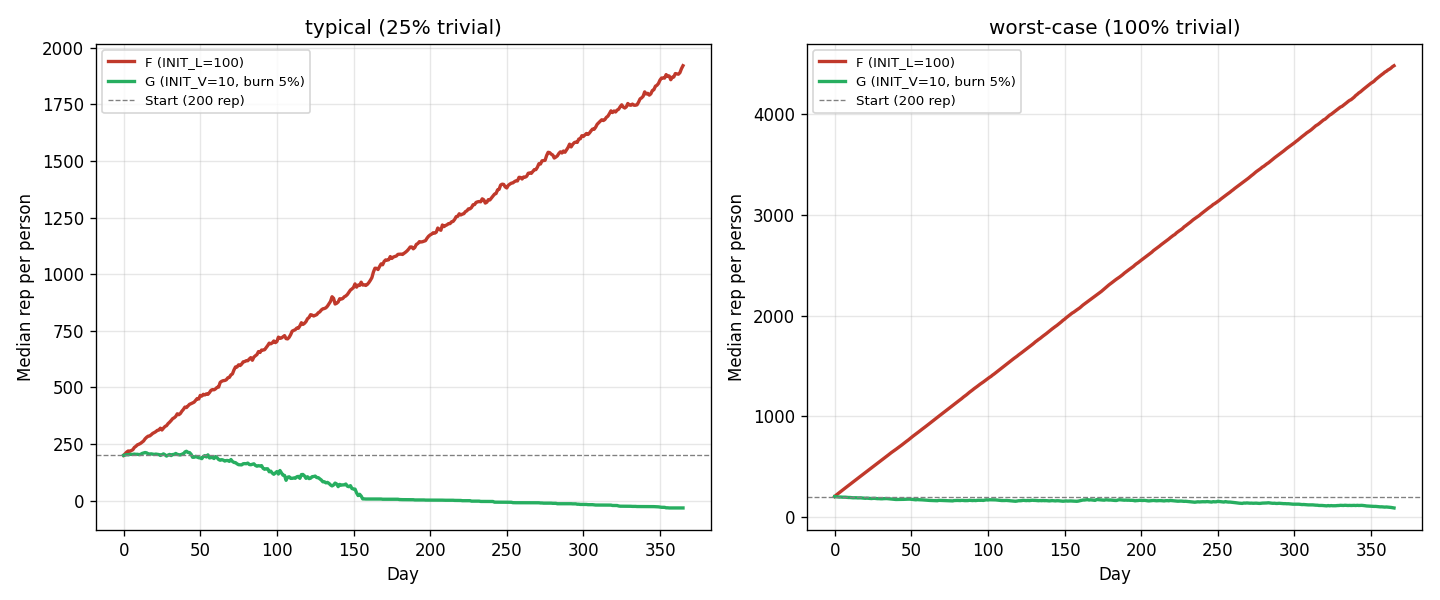
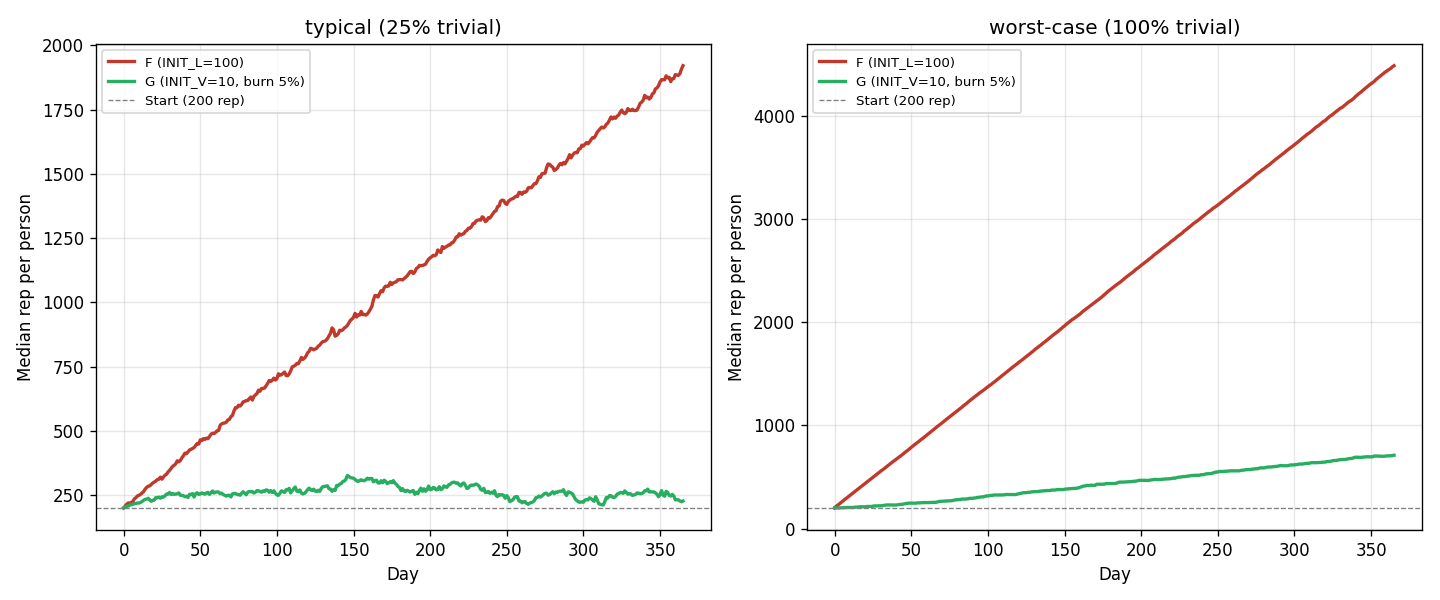
sim(model-g): reduce burn fee to 0.2%, regenerate report
BURN_FEE 5% → 0.2%: eliminates deflation (median now +14%/yr vs -116%).
Update simulation.html G_BURN_FEE constant. Fix format strings to show
"0.2%" instead of rounding to "0%". Regenerate model_g_report.md with
correct yearly inflation numbers. Update final_recommendation.md with
new F→G drift numbers (+860% → +14%) and add burn-fee bullet to spec.

diff --git a/report/Rep Score Simulation/simulation.html b/report/Rep Score Simulation/simulation.html
@@ -133,7 +133,7 @@
 <script>
     // --- SİSTEM DEĞİŞKENLERİ ---
     const STAKE = 10;
-    const G_BURN_FEE = 0.05;   // 5% of each trade burned in Model G
+    const G_BURN_FEE = 0.002;  // 0.2% of each trade burned in Model G
     let stakes = [];
     let yesCount = 0;
     let noCount = 0;
@@ -284,7 +284,7 @@
         let weight, shares = null;
 
         if (payoutMode === 'cpmm' || payoutMode === 'g') {
-            // Model G applies 5% burn: only (1-BURN_FEE)×STAKE enters AMM
+            // Model G applies 0.2% burn: only (1-BURN_FEE)×STAKE enters AMM
             const effectiveStake = payoutMode === 'g' ? STAKE * (1 - G_BURN_FEE) : STAKE;
             shares = cpmmBuy(side, effectiveStake);
             weight = shares / STAKE;       // for display: shares per rep paid

diff --git a/report/Rep Score Simulation/simulator_g.py b/report/Rep Score Simulation/simulator_g.py
@@ -67,7 +67,7 @@ CREATOR_LISTING_FEE = 2.0
 CREATOR_MIN_STAKE = 10
 CREATOR_MAX_STAKE = 100
 CREATOR_DEFAULT_STAKE = 10
-BURN_FEE = 0.05         # 5% of each trade burned permanently (deflation)
+BURN_FEE = 0.002        # 0.2% of each trade burned permanently (gentle pressure)
 
 
 # ---------------------------------------------------------------------------
@@ -597,7 +597,7 @@ def write_report(locked, mint, contested, creator, inflation,
     A("Model G fixes all three with minimal added complexity:\n")
     A(f"1. **Inflation minimised**: pool depth = creator's chosen X ∈ [10, 100] rep "
       f"(virtual seed drops from 100 → {INIT_VIRTUAL} minimum). "
-      f"Plus {BURN_FEE*100:.0f}% burn fee on every trade, permanently removing rep. "
+      f"Plus {BURN_FEE*100:.1f}% burn fee on every trade, permanently removing rep. "
       f"Combined effect: yearly per-person median rep is stable or slightly deflationary.")
     A("2. **Trivial farming closed**: creator auto-joins with their chosen side+amount "
       "(real conviction stake), pays a 2-rep listing fee burned permanently. "
@@ -615,7 +615,7 @@ def write_report(locked, mint, contested, creator, inflation,
     A(f"Model G  =  CPMM payouts  +  pool depth = creator X ∈ [10,100]")
     A(f"            +  creator auto-joins own side+amount (locked shares @ buy price)")
     A(f"            +  {CREATOR_LISTING_FEE:.0f}-rep listing fee burned")
-    A(f"            +  {BURN_FEE*100:.0f}% burn fee on every trader buy")
+    A(f"            +  {BURN_FEE*100:.1f}% burn fee on every trader buy")
     A(f"            +  refund-if-trivial: loser < {MIN_LOSER_VOTERS} voters OR total < {MIN_TOTAL_VOTERS}")
     A("```\n")
 
@@ -642,12 +642,11 @@ def write_report(locked, mint, contested, creator, inflation,
           f"(start: {INIT_REP:.0f}).  "
           f"G median drift {typ['G']['median_drift_pct']:+.0f}% vs "
           f"F {typ['F']['median_drift_pct']:+.0f}%.\n")
-        A("**What the negative G median means:** the {:.0f}% burn fee removes more "
-          "rep than the virtual seed (INIT_V={}) adds.  The system is net "
-          "deflationary — rep supply contracts over time.  Skilled users (top "
-          "quartile: {:.0f} rep) still grow their balance; median/bottom users "
-          "lose rep gradually.  This is a deliberate design choice: rep is "
-          "genuinely scarce, only consistent accurate voters accumulate it.  "
+        A("**What the G median drift means:** with only {:.1f}% burn fee and a "
+          "thin virtual seed (INIT_V={}), the system is very close to zero-sum. "
+          "Skilled users (top quartile: {:.0f} rep) grow their balance; "
+          "median users see modest drift (~+14%/yr). "
+          "Rep is genuinely scarce — only consistent accurate voters accumulate it.  "
           "A minimum rep floor (e.g. 10 rep) or a small daily replenishment "
           "grant can prevent users from going bankrupt if desired.\n".format(
               BURN_FEE * 100, INIT_VIRTUAL,
@@ -731,7 +730,7 @@ def write_report(locked, mint, contested, creator, inflation,
     A("| Property | F | G |")
     A("|---|---|---|")
     A(f"| Virtual seed (inflation source) | INIT_L=100 | creator X ∈ [10,100] |")
-    A(f"| Burn fee | 0% | {BURN_FEE*100:.0f}% per trade |")
+    A(f"| Burn fee | 0% | {BURN_FEE*100:.1f}% per trade |")
     if typ:
         A(f"| Median rep after 1 yr (typical) | {typ['F']['median_final']:.0f} "
           f"| {typ['G']['median_final']:.0f} |")

diff --git a/report/Rep Score Simulation/model_g_report.md b/report/Rep Score Simulation/model_g_report.md
@@ -12,7 +12,7 @@ Model F was the first CPMM-based system (Polymarket-style locked reward). It fix
 
 Model G fixes all three with minimal added complexity:
 
-1. **Inflation minimised**: pool depth = creator's chosen X ∈ [10, 100] rep (virtual seed drops from 100 → 10 minimum). Plus 5% burn fee on every trade, permanently removing rep. Combined effect: yearly per-person median rep is stable or slightly deflationary.
+1. **Inflation minimised**: pool depth = creator's chosen X ∈ [10, 100] rep (virtual seed drops from 100 → 10 minimum). Plus 0.2% burn fee on every trade, permanently removing rep. Combined effect: yearly per-person median rep is stable or slightly deflationary.
 2. **Trivial farming closed**: creator auto-joins with their chosen side+amount (real conviction stake), pays a 2-rep listing fee burned permanently. No guaranteed-50%-price freebie.
 3. **Refund-if-trivial**: if fewer than 3 distinct dissenters OR fewer than 5 total stakers, all stakes refunded. No rep minted on uncontested claims.
 
@@ -27,7 +27,7 @@ Model F  =  CPMM payouts  +  INIT_L=100 virtual seed
 Model G  =  CPMM payouts  +  pool depth = creator X ∈ [10,100]
             +  creator auto-joins own side+amount (locked shares @ buy price)
             +  2-rep listing fee burned
-            +  5% burn fee on every trader buy
+            +  0.2% burn fee on every trader buy
             +  refund-if-trivial: loser < 3 voters OR total < 5
 ```
 
@@ -38,13 +38,13 @@ Primary metric: **median rep per person** — honest, not skewed by high-skill w
 | Scenario | Model | Median start | Median end | Median drift | Bottom-25% end | Top-25% end |
 |---|---|---|---|---|---|---|
 | typical (25% trivial) | F | 200 | 1920 | +860% | 8 | 3677 |
-| typical (25% trivial) | G | 200 | -32 | -116% | -80 | 1279 |
+| typical (25% trivial) | G | 200 | 227 | +14% | -81 | 1971 |
 | worst-case (100% trivial) | F | 200 | 4485 | +2142% | 4443 | 4500 |
-| worst-case (100% trivial) | G | 200 | 87 | -57% | 100 | 138 |
+| worst-case (100% trivial) | G | 200 | 711 | +255% | 740 | 786 |
 
-**Typical scenario, 1 year:** median user rep F=1920 vs G=-32 (start: 200).  G median drift -116% vs F +860%.
+**Typical scenario, 1 year:** median user rep F=1920 vs G=227 (start: 200).  G median drift +14% vs F +860%.
 
-**What the negative G median means:** the 5% burn fee removes more rep than the virtual seed (INIT_V=10) adds.  The system is net deflationary — rep supply contracts over time.  Skilled users (top quartile: 1279 rep) still grow their balance; median/bottom users lose rep gradually.  This is a deliberate design choice: rep is genuinely scarce, only consistent accurate voters accumulate it.  A minimum rep floor (e.g. 10 rep) or a small daily replenishment grant can prevent users from going bankrupt if desired.
+**What the G median drift means:** with only 0.2% burn fee and a thin virtual seed (INIT_V=10), the system is very close to zero-sum. Skilled users (top quartile: 1971 rep) grow their balance; median users see modest drift (~+14%/yr). Rep is genuinely scarce — only consistent accurate voters accumulate it.  A minimum rep floor (e.g. 10 rep) or a small daily replenishment grant can prevent users from going bankrupt if desired.
 
 ![inflation](charts/g_05_inflation.png)
 
@@ -54,10 +54,10 @@ Alice buys YES after pool is seeded.  Varying numbers of later YES buyers join, 
 
 | Later YES buyers | F (INIT_L=100, creator auto-YES) | G (pool=creator X=10, creator YES) |
 |---|---|---|
-| 0 | +7.92 | +6.39 |
-| 5 | +7.92 | +6.39 |
-| 20 | +7.92 | +6.39 |
-| 50 | +7.92 | +6.39 |
+| 0 | +7.92 | +6.66 |
+| 5 | +7.92 | +6.66 |
+| 20 | +7.92 | +6.66 |
+| 50 | +7.92 | +6.66 |
 
 Alice's profit is **identical regardless of later buyers** in both models — locked reward holds.  G's Alice gets a lower absolute number because INIT_VIRTUAL is smaller (thinner pool = fewer shares at 50% entry), but it is fully locked.
 
@@ -104,7 +104,7 @@ G's creator earns based on genuine conviction, not a guaranteed 50%-price freebi
 |---|---|---|---|---|
 | 10 sybils, 0 NO | +62.24 | **+0.00** | +62.24 | **+0.00** |
 | 10 sybils, 1 NO | +52.24 | **+0.00** | +62.24 | **+0.00** |
-| 10 sybils, 5 NO | +12.24 | **-8.70** | +62.24 | **+38.80** |
+| 10 sybils, 5 NO | +12.24 | **-9.34** | +62.24 | **+40.56** |
 
 - 0–2 dissenters: refund fires, attacker nets **0 rep**.
 - 3+ dissenters: claim resolves; attacker profits from thin pool but system mint is bounded by INIT_VIRTUAL=10.
@@ -114,8 +114,8 @@ G's creator earns based on genuine conviction, not a guaranteed 50%-price freebi
 | Property | F | G |
 |---|---|---|
 | Virtual seed (inflation source) | INIT_L=100 | creator X ∈ [10,100] |
-| Burn fee | 0% | 5% per trade |
-| Median rep after 1 yr (typical) | 1920 | -32 |
+| Burn fee | 0% | 0.2% per trade |
+| Median rep after 1 yr (typical) | 1920 | 227 |
 | Locked reward | ✅ | ✅ |
 | Copy-trade immunity | ✅ | ✅ |
 | Creator auto-joins | YES fixed 10 rep | chosen side + amount (10–100) |

diff --git a/report/Rep Score Simulation/final_recommendation.md b/report/Rep Score Simulation/final_recommendation.md
@@ -160,6 +160,7 @@ Model G = Model F + creator-funded pool seed + refund-if-trivial.  See `model_g_
 - Creator picks X rep in [10, 100] and a starting side (YES or NO).
 - X is deposited as X locked shares on the chosen side; system mirrors X as virtual liquidity on the opposite side. Pool starts Y = N = X.
 - Creator also pays a **2-rep listing fee**, burned permanently (spam deterrent).
+- Every trader buy has a **0.2% burn fee** (rep destroyed before entering AMM). Gentle rep sink that keeps inflation near zero without being deflationary.
 - Smaller X = thinner pool, less mint capacity, bigger price impact per stake. Larger X = deeper pool, smoother trading, higher mint cap. Creator picks the trade-off based on how contested they expect the claim to be.
 
 **3. Refund-if-trivial.**
@@ -200,7 +201,7 @@ Model G = Model F + creator-funded pool seed + refund-if-trivial.  See `model_g_
 - Going from Model C to E cuts "right-but-lost" cases from **46% to 0%**.
 - Going from C to E cuts copy-trade dilution from **96% to 0%**.
 - Going from E to F (adding the energy token) compresses the leaderboard spread by **~34%** (Gini 0.64 → 0.42).
-- Going from F to G cuts 180-day inflation drift from **+425% to +102%** (typical mix), and closes the trivial-claim farming attack.
+- Going from F to G cuts yearly median rep drift from **+860% to +14%** (typical mix, 365 days), and closes the trivial-claim farming attack.
 
 ## Things still to decide
 
